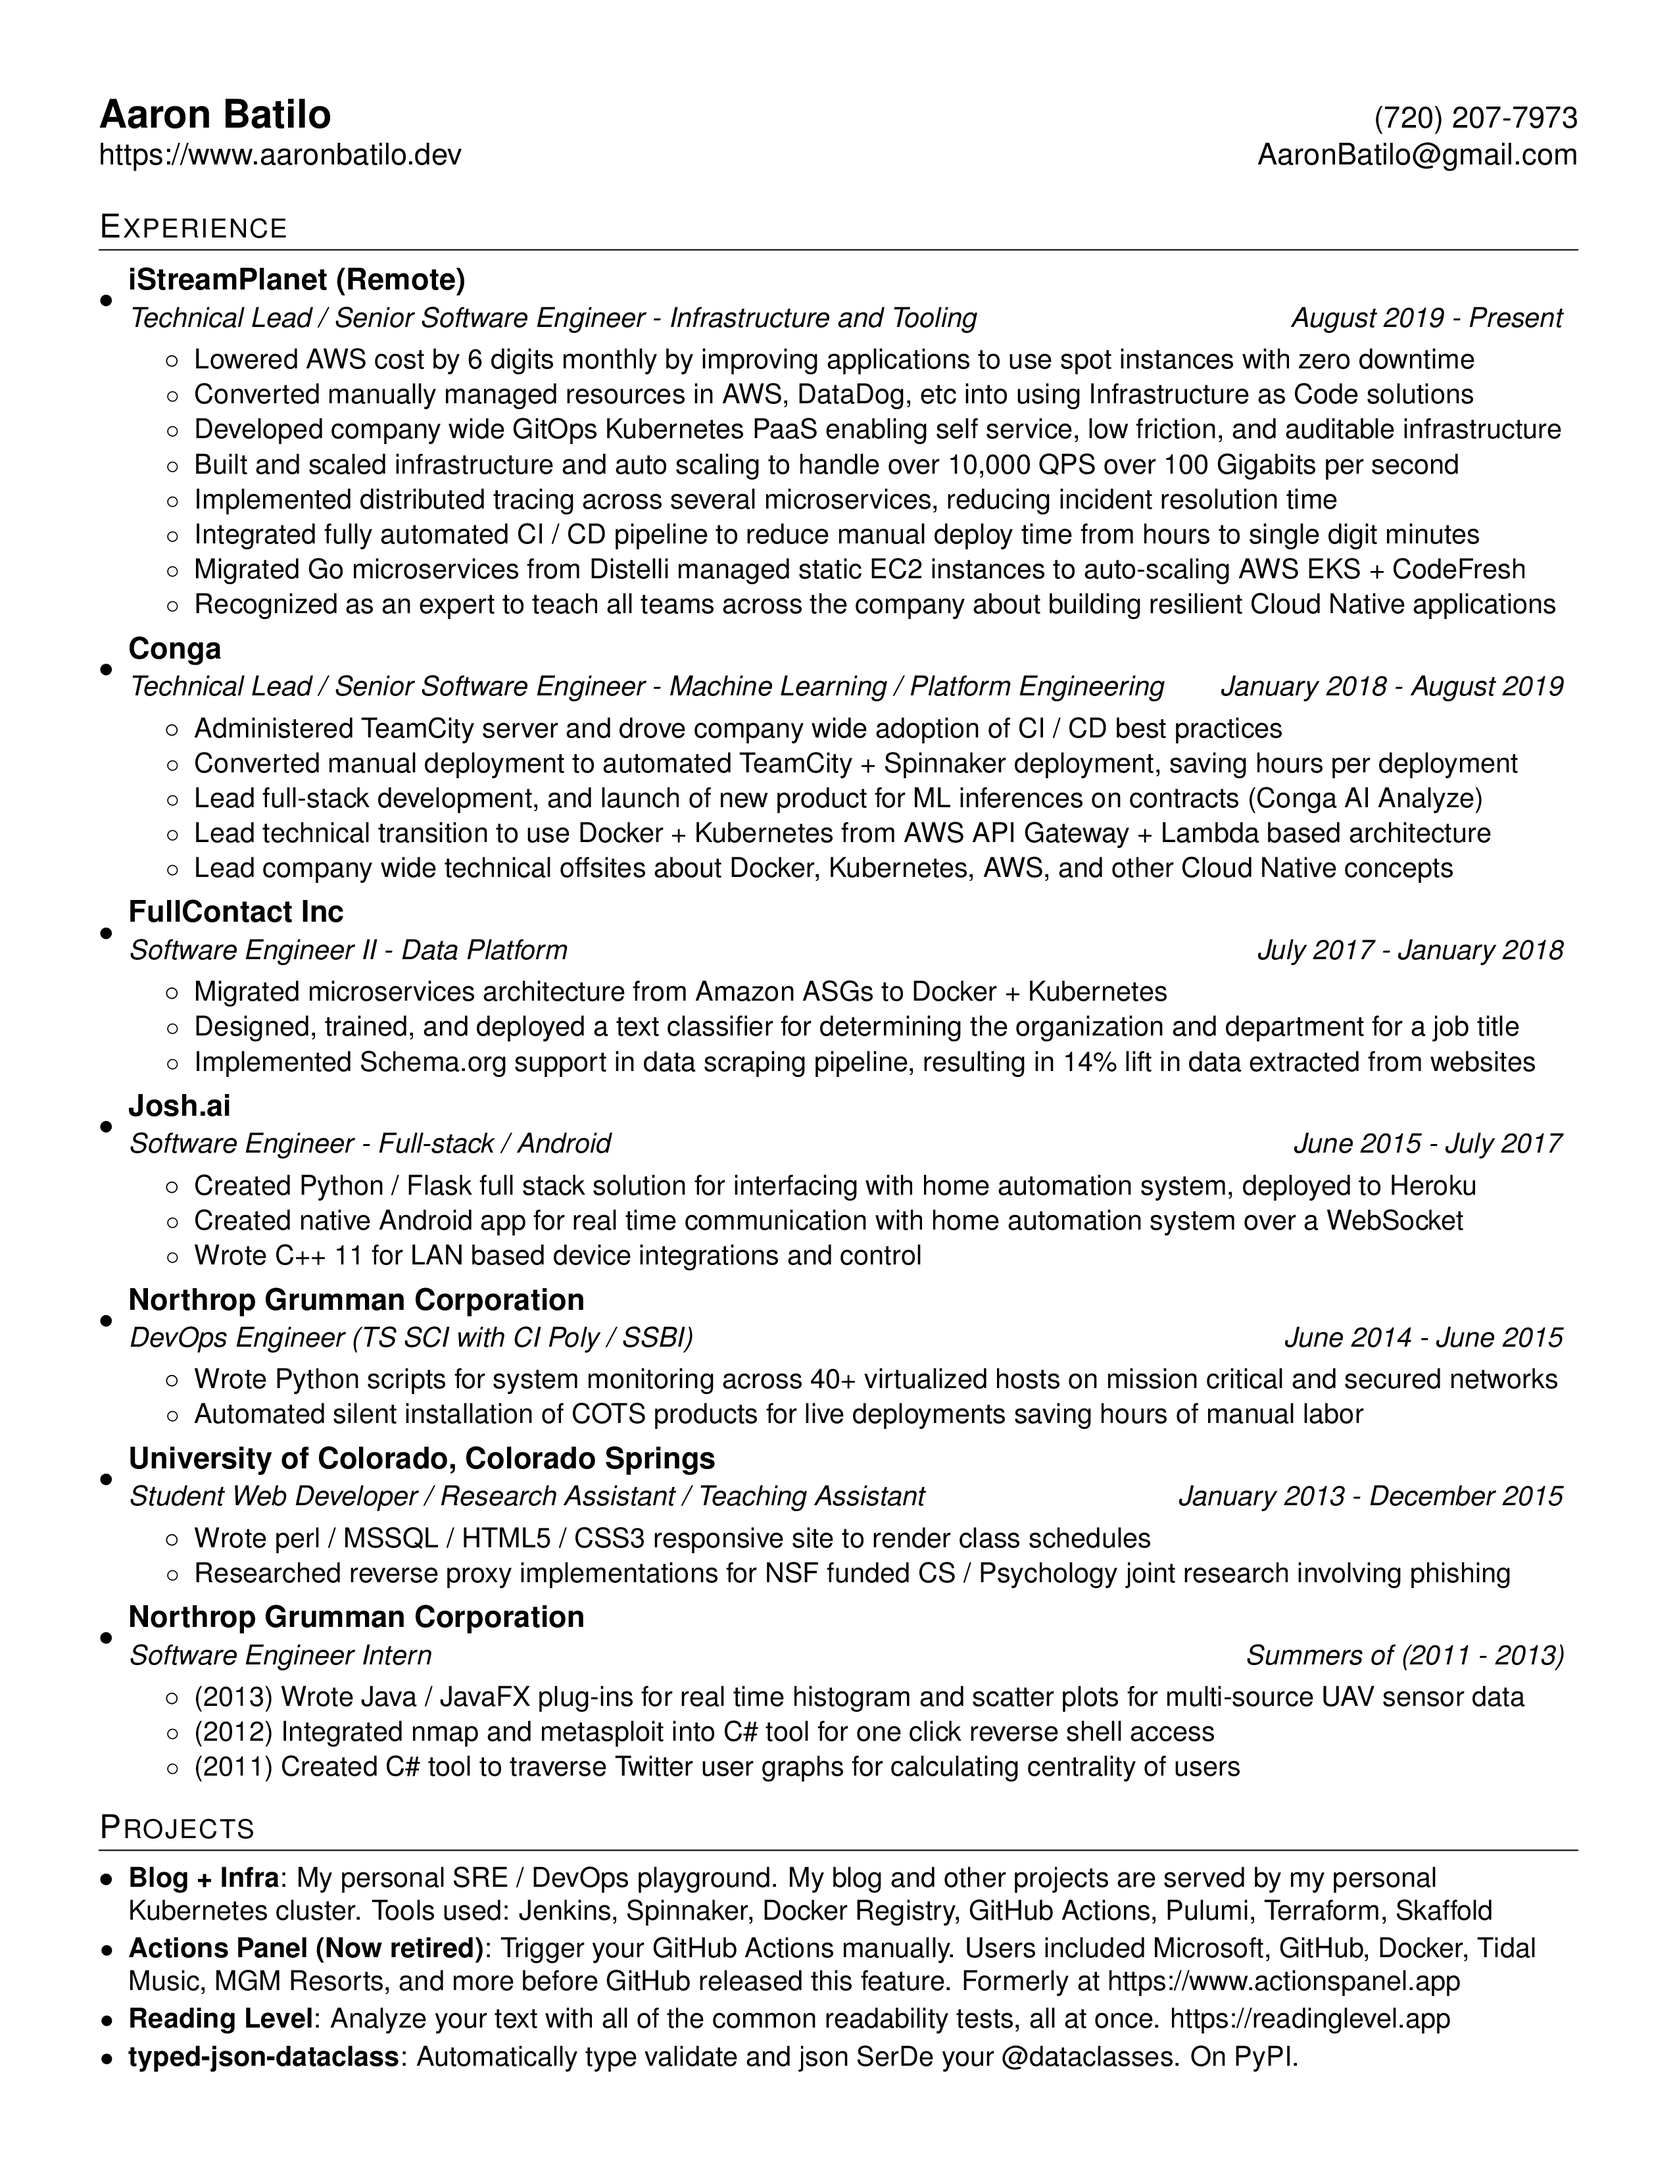
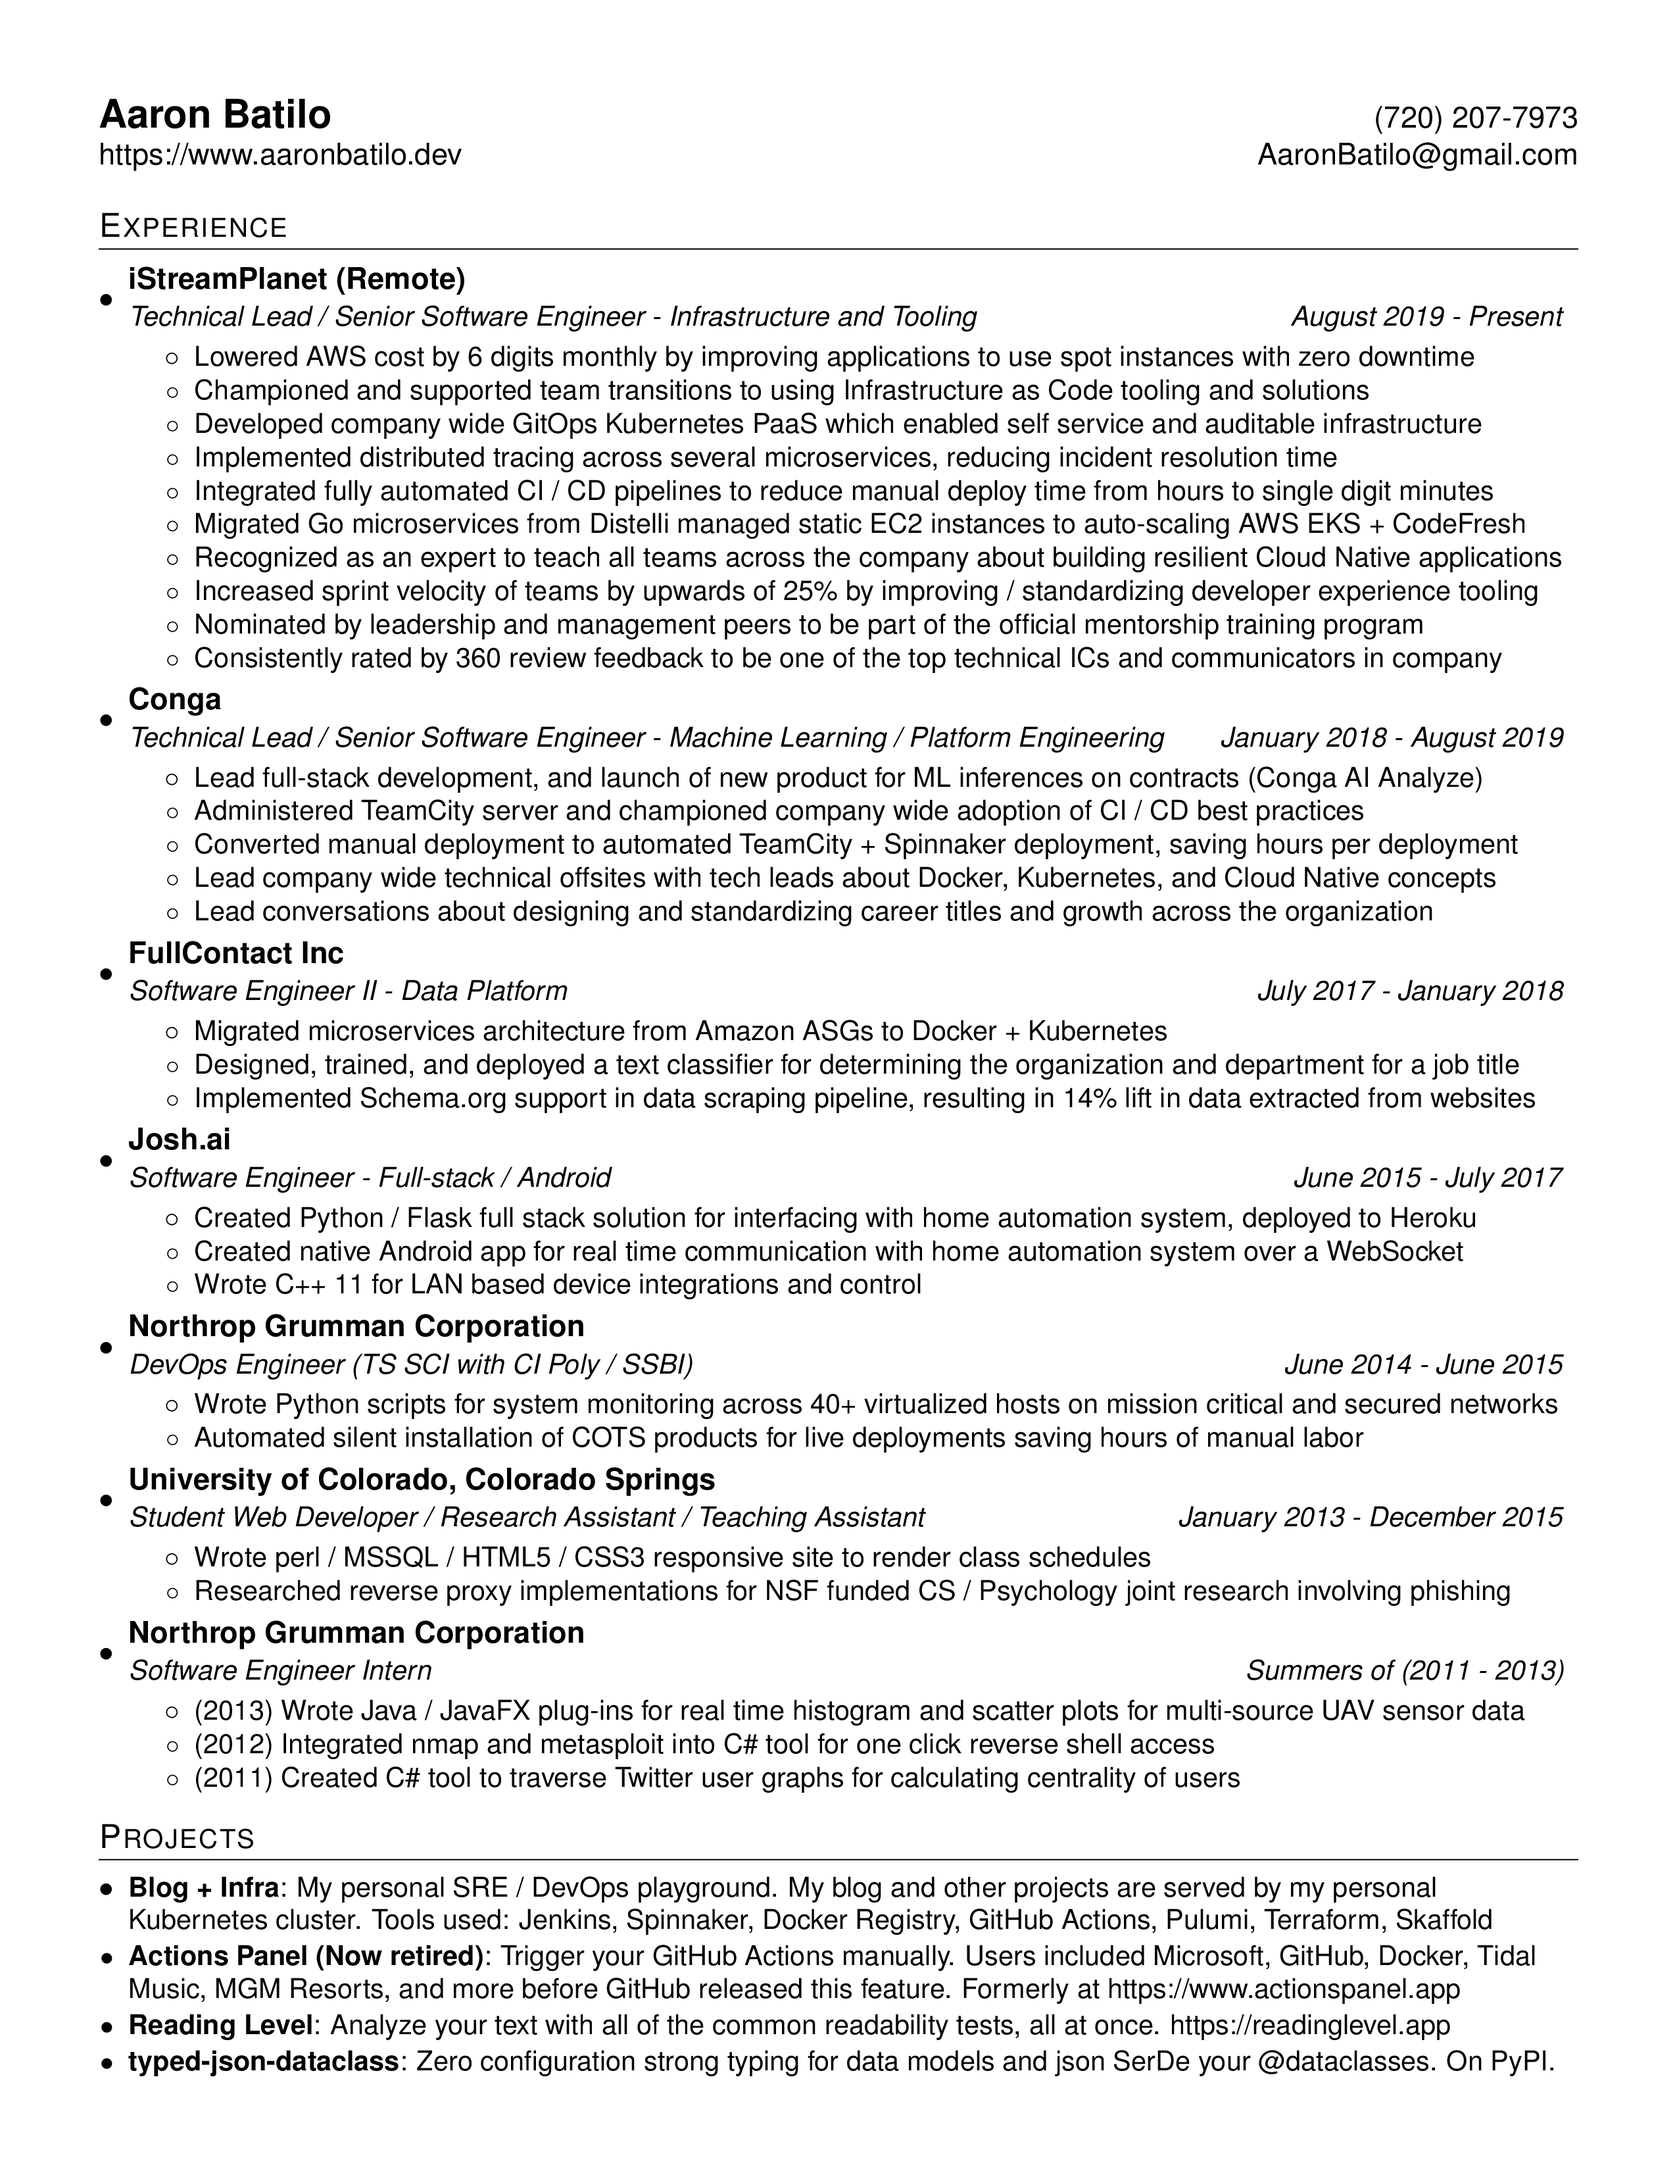
Include more soft skills bullet points

Changed region(s): [[0.062, 0.1248, 0.9294, 0.9676], [0.8984, 0.1248, 0.9294, 0.1561], [0.062, 0.0936, 0.0929, 0.1248]]

diff --git a/resume.tex b/resume.tex
@@ -96,19 +96,15 @@
       {Technical Lead / Senior Software Engineer - Infrastructure and Tooling}{August 2019 - Present}
       \resumeItemListStart
         \resumeItemNoBold {Lowered AWS cost by 6 digits monthly by improving applications to use spot instances with zero downtime}
-        \resumeItemNoBold {Converted manually managed resources in AWS, DataDog, etc into using Infrastructure as Code solutions}
-        \resumeItemNoBold {Developed company wide GitOps Kubernetes PaaS enabling self service, low friction, and auditable infrastructure}
-        \resumeItemNoBold {Built and scaled infrastructure and auto scaling to handle over 10,000 QPS over 100 Gigabits per second}
+        \resumeItemNoBold {Championed and supported team transitions to using Infrastructure as Code tooling and solutions}
+        \resumeItemNoBold {Developed company wide GitOps Kubernetes PaaS which enabled self service and auditable infrastructure}
         \resumeItemNoBold {Implemented distributed tracing across several microservices, reducing incident resolution time}
-        \resumeItemNoBold {Integrated fully automated CI / CD pipeline to reduce manual deploy time from hours to single digit minutes}
+        \resumeItemNoBold {Integrated fully automated CI / CD pipelines to reduce manual deploy time from hours to single digit minutes}
         \resumeItemNoBold {Migrated Go microservices from Distelli managed static EC2 instances to auto-scaling AWS EKS + CodeFresh}
         \resumeItemNoBold {Recognized as an expert to teach all teams across the company about building resilient Cloud Native applications}
-
-        % \resumeItemNoBold {Placeholder, there's room for more bullets without going to two pages}
-        % \resumeItemNoBold {Placeholder, there's room for more bullets without going to two pages}
-        % \resumeItemNoBold {Placeholder, there's room for more bullets without going to two pages}
-        % \resumeItemNoBold {Placeholder, there's room for more bullets without going to two pages}
-        % \resumeItemNoBold {Placeholder, there's room for more bullets without going to two pages}
+        \resumeItemNoBold {Increased sprint velocity of teams by upwards of 25\% by improving / standardizing developer experience tooling}
+        \resumeItemNoBold {Nominated by leadership and management peers to be part of the official mentorship training program}
+        \resumeItemNoBold {Consistently rated by 360 review feedback to be one of the top technical ICs and communicators in company}
       \resumeItemListEnd
 
     \resumeSubheading
@@ -116,11 +112,11 @@
       {Technical Lead / Senior Software Engineer - Machine Learning / Platform Engineering}{January
         2018 - August 2019}
       \resumeItemListStart
-        \resumeItemNoBold {Administered TeamCity server and drove company wide adoption of CI / CD best practices}
-        \resumeItemNoBold {Converted manual deployment to automated TeamCity + Spinnaker deployment, saving hours per deployment}
         \resumeItemNoBold {Lead full-stack development, and launch of new product for ML inferences on contracts (Conga AI Analyze)}
-        \resumeItemNoBold {Lead technical transition to use Docker + Kubernetes from AWS API Gateway + Lambda based architecture}
-        \resumeItemNoBold {Lead company wide technical offsites about Docker, Kubernetes, AWS, and other Cloud Native concepts}
+        \resumeItemNoBold {Administered TeamCity server and championed company wide adoption of CI / CD best practices}
+        \resumeItemNoBold {Converted manual deployment to automated TeamCity + Spinnaker deployment, saving hours per deployment}
+        \resumeItemNoBold {Lead company wide technical offsites with tech leads about Docker, Kubernetes, and Cloud Native concepts}
+        \resumeItemNoBold {Lead conversations about designing and standardizing career titles and growth across the organization}
       \resumeItemListEnd
 
     \resumeSubheading
@@ -183,6 +179,6 @@
     {Analyze your text with all of the common readability tests, all at once.
       \href{https://www.readinglevel.app}{https://readinglevel.app}}
   \resumeSubItem{\href{https://pypi.org/project/typed-json-dataclass/}{typed-json-dataclass}}
-    {Automatically type validate and json SerDe your @dataclasses. On PyPI.}
+    {Zero configuration strong typing for data models and json SerDe your @dataclasses. On PyPI.}
   \resumeSubHeadingListEnd
 \end{document}
